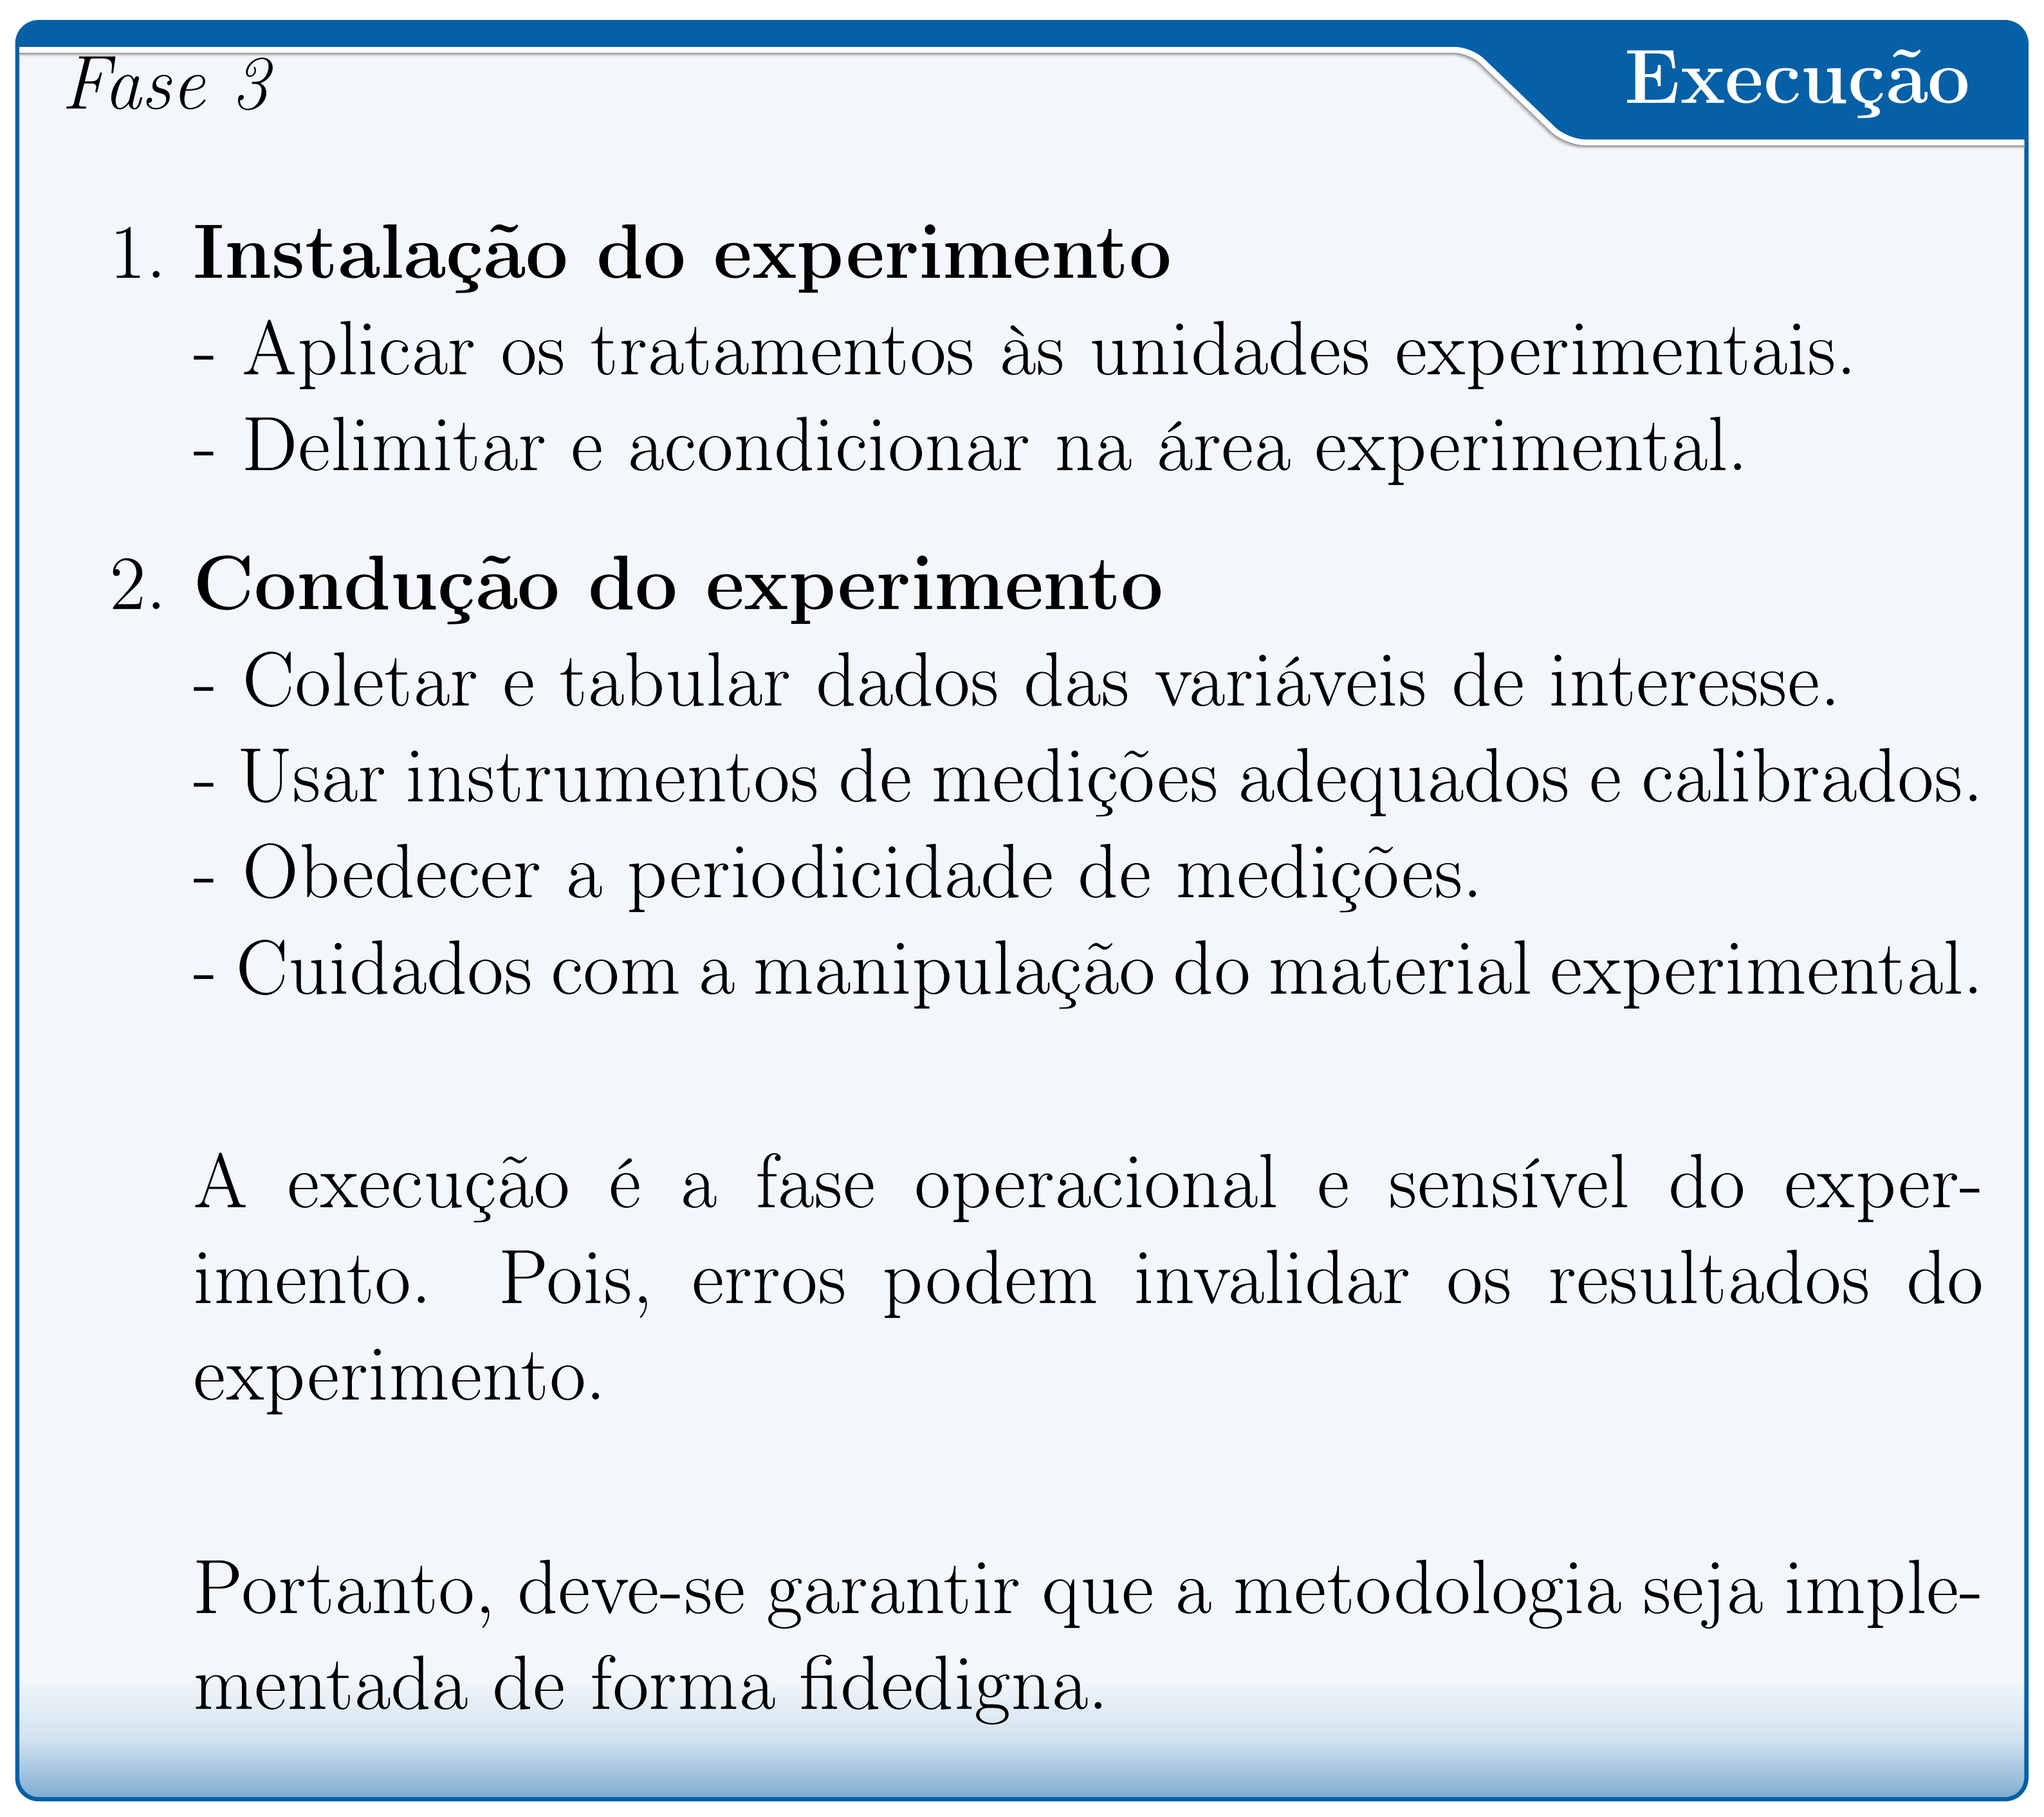
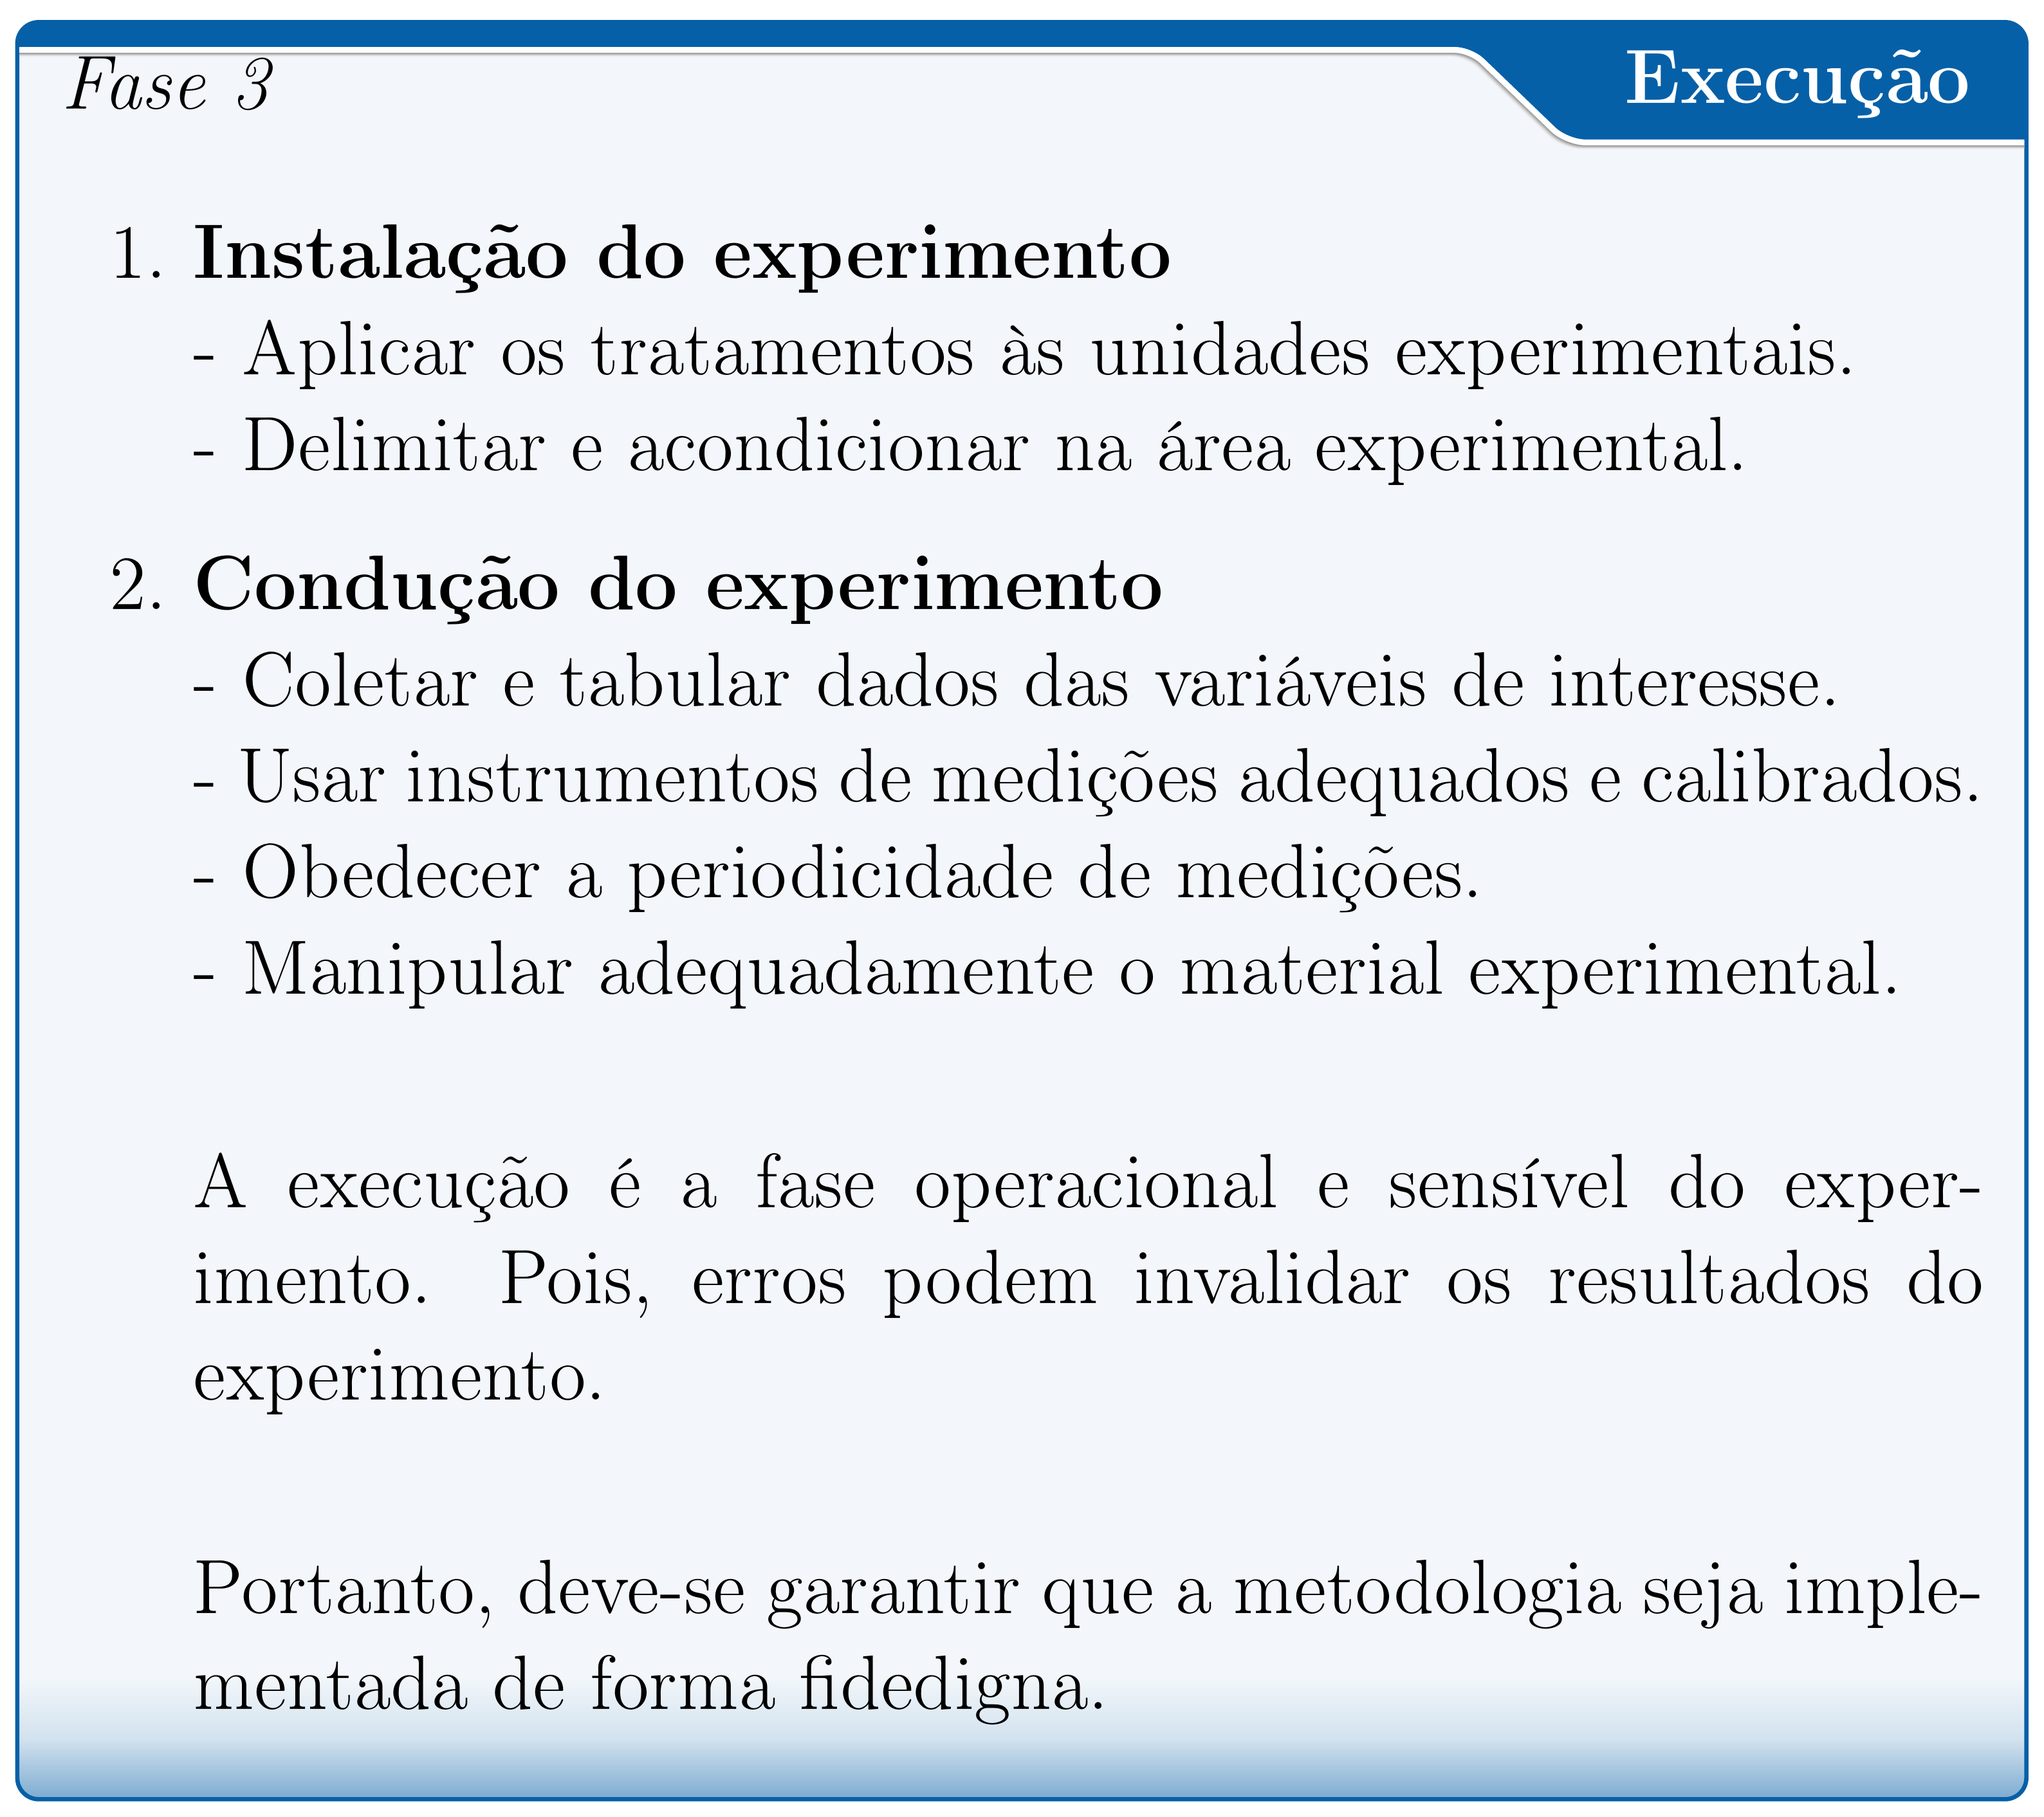
Update class 1

Changed region(s): [[0.1246, 0.4984, 0.966, 0.5607]]

diff --git a/Slides/Aula1-Conceitos-Principios-Planejamento.html b/Slides/Aula1-Conceitos-Principios-Planejamento.html
@@ -655,7 +655,7 @@ Fonte: [pt.wikipedia.org](https://pt.wikipedia.org/wiki/Experimenta%C3%A7%C3%A3o
 ## Fases da pesquisa experimental
 &lt;br&gt;
 
-&lt;img src="fig/class1/F3.png" width="50%" style="display: block; margin: auto;" /&gt;
+&lt;img src="fig/class1/F4.png" width="50%" style="display: block; margin: auto;" /&gt;
 
 ---
 ## Referências
